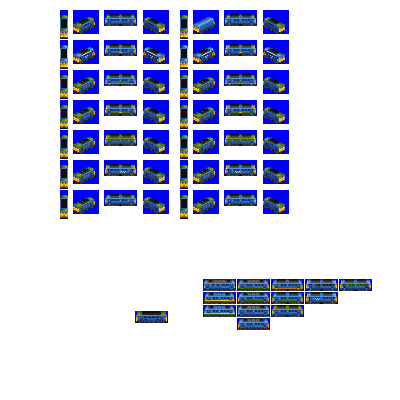
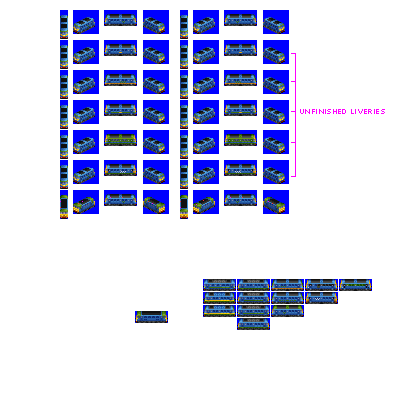
Change: sprites complete for Stalwwart

diff --git a/src/vehicles/stalwart.py b/src/vehicles/stalwart.py
@@ -16,13 +16,14 @@ def main(roster_id):
         gen=4,
         pantograph_type="z-shaped-double",
         intro_year_offset=-1,  # introduce earlier than gen epoch by design
-        # banger blue
-        additional_liveries=["BANGER_BLUE", "SWOOSH", "WHITE_STRIPE", "2CC", "RAILFREIGHT_RED_STRIPE",],
+        #additional_liveries=["BANGER_BLUE", "SWOOSH", "WHITE_STRIPE", "2CC", "RAILFREIGHT_RED_STRIPE",],
+        additional_liveries=[],
         default_livery_extra_docs_examples=[
             ("COLOUR_BLUE", "COLOUR_WHITE"),
             ("COLOUR_LIGHT_BLUE", "COLOUR_WHITE"),
         ],
-        sprites_complete=False,
+        sprites_complete=True,
+        sprites_additional_liveries_needed=True,
     )
 
     consist.add_unit(
